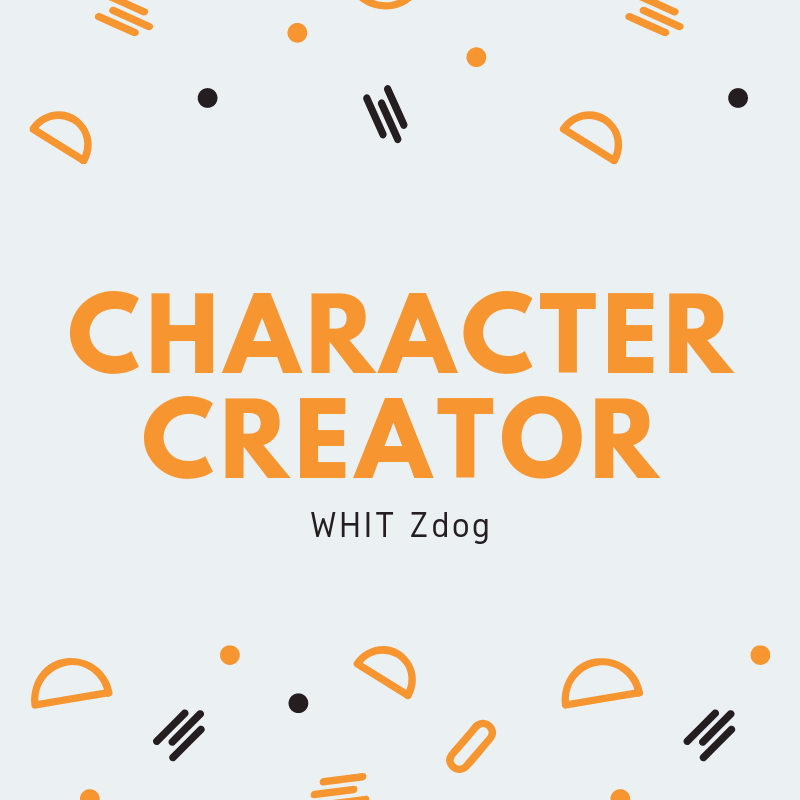
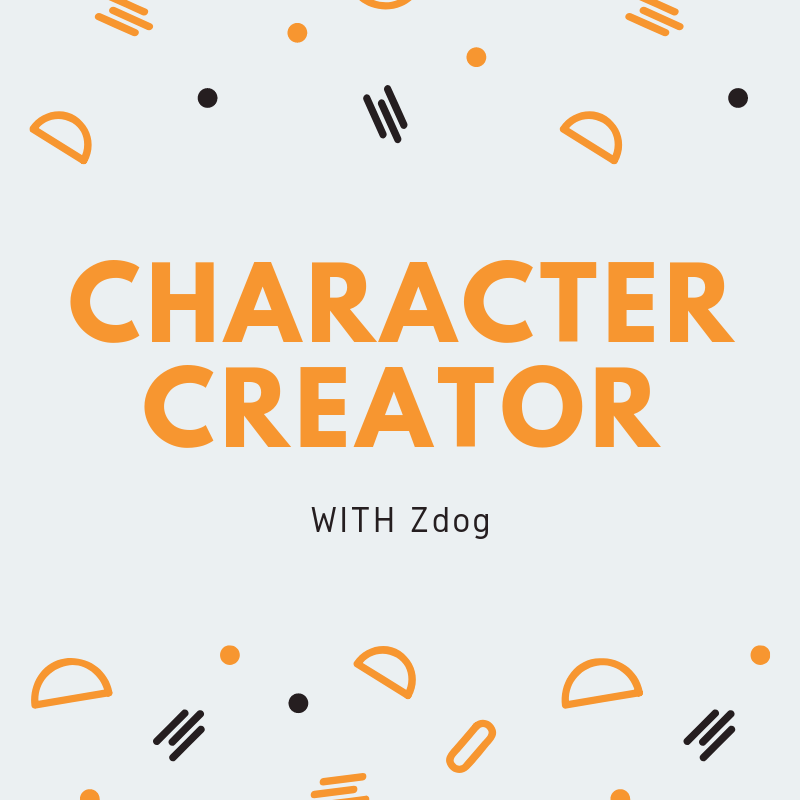
Changed Typo and details of project cards

Changed region(s): [[0.0625, 0.3125, 0.9375, 0.6875]]

diff --git a/index.html b/index.html
@@ -91,12 +91,19 @@
                   role-playing game, and gradually add more interaction with the
                   character.
                 </p>
-                <h1 class="tools">JS ES6 HTML5 CSS3 API's</h1>
+                <h1 class="tools">JS ES6 HTML5 CSS3 ZDOG API</h1>
+                <a
+                  class="repo"
+                  href="https://galiov.github.io/Character-Creator-Zdog/"
+                  target="_blank"
+                  >View Project</a
+                >
+                <br />
                 <a
                   class="repo"
                   href="https://github.com/Galiov/Character-Creator-Zdog"
                   target="_blank"
-                  >Visit repo</a
+                  >Check the code</a
                 >
               </div>
             </div>
@@ -117,12 +124,19 @@
                   enjoy classic movies. Many of these films are considered as
                   icons of popular culture today.
                 </p>
-                <h1 class="tools">JS ES6 HTML5 CSS3 API's</h1>
+                <h1 class="tools">JS ES6 HTML5 CSS3 OMDb API</h1>
+                <a
+                  class="repo"
+                  href="https://galiov.github.io/Back-to-the-20th-century/src/"
+                  target="_blank"
+                  >View Project</a
+                >
+                <br />
                 <a
                   class="repo"
                   href="https://github.com/Galiov/Back-to-the-20th-century"
                   target="_blank"
-                  >Visit repo</a
+                  >Check the code</a
                 >
               </div>
             </div>
@@ -142,9 +156,16 @@
                 <h1 class="tools">JS ES6 HTML5 CSS3</h1>
                 <a
                   class="repo"
+                  href="https://galiov.github.io/Cipher/src/"
+                  target="_blank"
+                  >View Project</a
+                >
+                <br />
+                <a
+                  class="repo"
                   href="https://github.com/Galiov/Cipher"
                   target="_blank"
-                  >Visit repo</a
+                  >Check the code</a
                 >
               </div>
             </div>
@@ -170,9 +191,16 @@
                 <h1 class="tools">JS ES6 HTML5 CSS3</h1>
                 <a
                   class="repo"
+                  href="https://galiov.github.io/GDL002-data-lovers/src/"
+                  target="_blank"
+                  >View Project</a
+                >
+                <br />
+                <a
+                  class="repo"
                   href="https://github.com/Galiov/GDL002-data-lovers"
                   target="_blank"
-                  >Visit repo</a
+                  >Check the code</a
                 >
               </div>
             </div>
